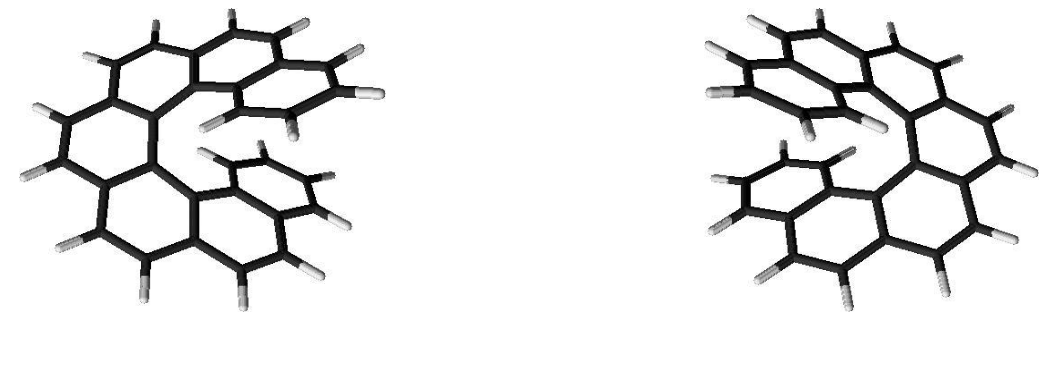
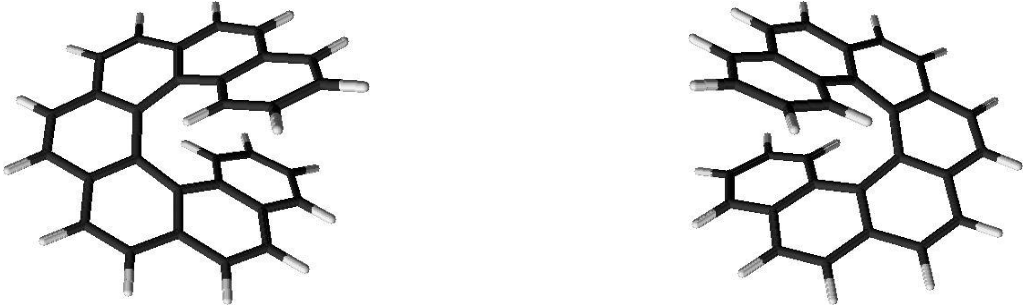
add new stuff

Changed region(s): [[0.0, 0.0, 0.3717, 1.0], [0.6505, 0.0, 0.9913, 1.0]]

diff --git a/work.md b/work.md
@@ -1,60 +1,66 @@
 ---
 layout: page
 permalink: /work/
-title: work
+title: Work
 ---
 
 
 
-###  	Automation of nuclear material cladding coating measurement process
-![Coating segmentation preview](/assets/images/preview.png)
-This project began as a solution to the time-intensive manual labeling of microscopy images during my work at the Nuclear Research Institute in Řež. I later expanded it into the focus of my bachelor’s thesis. The core objective was to semi-automate the institute’s coating analysis workflow by integrating a trained U-Net model into their existing process.
+<style>
+.card:hover .card-header h3 { text-decoration: underline; }
+.work-card-image {
+  width: 100%;
+  height: 190px;          /* adjust as needed */
+  object-fit: cover;
+  object-position: center;
+  display: block;
+}.card { cursor: pointer; border: 1px solid var(--border-color); padding: 1rem; margin-bottom: 1.25rem; border-radius: 6px; background: var(--content-bg-color); }
+.card-header h3 { margin: 0 0 0.25rem 0; }
+.card-meta { font-size: 0.9rem; color: var(--text-color); }
+.button-container { margin-top: 0.5rem; }
+</style>
 
-A major part of the work involved building a custom dataset from scratch, as no suitable dataset previously existed. The training process, model architecture, and dataset creation are all thoroughly documented in the thesis.
+<script>
+function toggleDescription(id) {
+  var element = document.getElementById(id);
+  if (!element) return;
+  element.style.display = (element.style.display === 'none' || element.style.display === '') ? 'block' : 'none';
+}
+</script>
 
-Through this work, I learned how to collect and process data in close collaboration with domain experts, train deep learning models for image segmentation, and integrate them into practical workflows. I gained hands-on experience with Python, OpenCV, PyTorch, Docker, and a range of machine learning tools and libraries.
-    
-<div class="button-container">
-  <a href="https://github.com/emmatekulova/coating_detection" class="button">Github Repo</a>
-  <!-- 
-  <a href="/assets/reports/thesis.pdf" class="button">Thesis</a>
- -->
+<div class="projects-section">
 
+<div class="card" onclick="toggleDescription('coatingDesc')">
+  <img class="work-card-image" src="/assets/images/preview.png" alt="Coating segmentation preview">
+  <div class="card-header"><h3>Automation of nuclear material cladding coating measurement process</h3></div>
+  <p class="card-meta">Nuclear Research Institute • Bachelor's thesis work</p>
+  <div id="coatingDesc" style="display: none; margin-top:0.75rem;">
+    <p>This project began as a solution to the time-intensive manual labeling of microscopy images during my work at the Nuclear Research Institute in Řež. I later expanded it into the focus of my bachelor’s thesis. The core objective was to semi-automate the institute’s coating analysis workflow by integrating a trained U-Net model into their existing process.</p>
+    <p>A major part of the work involved building a custom dataset from scratch, as no suitable dataset previously existed. The training process, model architecture, and dataset creation are all thoroughly documented in the thesis.</p>
+    <p>Through this work, I learned how to collect and process data in close collaboration with domain experts, train deep learning models for image segmentation, and integrate them into practical workflows. I gained hands-on experience with Python, OpenCV, PyTorch, Docker, and a range of machine learning tools and libraries.</p>
+    <div class="button-container"><a href="https://github.com/emmatekulova/coating_detection" class="button">Github Repo</a> <a href="https://github.com/emmatekulova/Automation_of_coating_measurement_process" class="button">Bachelor Thesis</a></div>
+  </div>
 </div>
 
-<div class="button-container">
-  <a href="https://github.com/emmatekulova/Automation_of_coating_measurement_process" class="button">Bachelor Thesis</a>
-  <!-- 
-  <a href="/assets/reports/thesis.pdf" class="button">Thesis</a>
- -->
-
+<div class="card" onclick="toggleDescription('nanoDesc')">
+  <img class="work-card-image" src="/assets/images/vertex.png" alt="Nanoindent growth measurement preview">
+  <div class="card-header"><h3>Nanoindent growth measurements + web app</h3></div>
+  <p class="card-meta">Measurement process automation • web app </p>
+  <div id="nanoDesc" style="display: none; margin-top:0.75rem;">
+    <p>This Python-based project focuses on processing image pairs—typically “before” and “after” shots—to analyze changes in a grid-like structure. It calculates the elongation and width differences of grid elements between the two images, providing insights into material deformation. The final work was integrated into a web-app.</p>
+    <div class="button-container"><a href="https://github.com/emmatekulova/nanoindent_growth_measurments/" class="button">Github Repo</a></div>
+  </div>
 </div>
 
-<br>
----
-
-<br>
-
-### Nanoindent growth measurements + web app
-![Nanoindent growth measurement preview](/assets/images/vertex.png)
-This Python-based project focuses on processing image pairs—typically “before” and “after” shots—to analyze changes in a grid-like structure. It calculates the elongation and width differences of grid elements between the two images, providing insights into material deformation. The final work was integrated into a web-app.
-
-The project was developed as part of my work at the Nuclear Research Institute in Řež and aims to assist in nanoindentation experiments through automated analysis.
-    
-<div class="button-container">
-  <a href="https://github.com/emmatekulova/nanoindent_growth_measurments/" class="button">Github Repo</a>
-
+<div class="card" onclick="toggleDescription('racemDesc')">
+  <img class="work-card-image" src="/assets/images/uochb2.png" alt="Racemization of n-Helicenes">
+  <div class="card-header"><h3>Racemization of n-Helicenes</h3></div>
+  <p class="card-meta">Computational chemistry: transition states, IR spectra</p>
+  <div id="racemDesc" style="display: none; margin-top:0.75rem;">
+    <p>I worked on the racemization properties of several helicenes, including <b>pentahelicene</b>, <b>hexahelicene</b>, <b>heptahelicene</b>, and <b>dinaphtho[5]helicene</b>. My research focused on calculating <b>racemization barriers</b>, identifying <b>transition states</b>, and analyzing <b>IR spectra</b>.</p>
+    <p>Along the way, I gained experience with tools like <b>Gaussian</b>, <b>VMD</b>, <b>Avogadro</b> and <b>QuantumATK</b> for molecular modeling and simulation.</p>
+    <div class="button-container"><a href="/assets/presentations/uochb_presentation.pdf" class="button">Mid-Project Presentation</a></div>
+  </div>
 </div>
 
-<br>
-
----
-
-<br>
-
-### Racemization of n-Helicenes
-![Racemization of n-Helicenes](/assets/images/uochb2.png)
-I worked on the racemization properties of several helicenes, including <b>pentahelicene</b>, <b>hexahelicene</b>, <b>heptahelicene</b>, and <b>dinaphtho[5]helicene</b>. My research focused on calculating <b>racemization barriers</b>, identifying <b>transition states</b>, and analyzing <b>IR spectra</b>.
-
-Along the way, I gained experience with tools like <b>Gaussian</b>, <b>VMD</b>, <b>Avogadro</b> and <b>QuantumATK</b> for molecular modeling and simulation.
-<div class="button-container"> <a href="/assets/presentations/uochb_presentation.pdf" class="button">Mid-Project Presentation</a> </div>
+</div>

diff --git a/cv.md b/cv.md
@@ -1,6 +1,6 @@
 ---
 layout: page
-title: cv
+title: CV
 permalink: /cv/
 order: 1
 ---
@@ -43,6 +43,7 @@ order: 1
 .cv-description {
     margin-top: 0.5em;
 }
+.thin-divider { border: none; border-top: 1px solid var(--border-color); margin: 0.35em 0; height: 0; }
 </style>
 
 
@@ -89,7 +90,9 @@ order: 1
 <div style="text-align: center; margin: 15px 0;">• • •</div>
 
 
-### Work Experience
+<a id="work-experience"></a>
+### <a href="/work">Work Experience</a>
+
 <div class="cv-entry">
     <div class="cv-heading">
         <div class="cv-heading-text">
@@ -156,27 +159,29 @@ order: 1
 - Correspondence seminar focused on chemistry for high school students
 - Authored and reviewed competition problems  
   [View sample problem (PDF)](https://ksicht.natur.cuni.cz/media/rocniky/zadani/KSICHT-22-1_final.pdf)
-
----
+  
+<hr class="thin-divider">
 
 **Event Organizer – Head of Legal Team**  
 *TEDxYouth@Bratislava • Bratislava, Slovakia 🇸🇰 05/2018 – 08/2020*  
 - Oversaw licensing and compliance for event with 300+ participants
-
+<hr class="thin-divider">
 <div style="text-align: center; margin: 15px 0;">• • •</div>
 
-### Honours and Awards
+<a id="honours-and-awards"></a>
+### <a href="/projects">Honours and Awards</a>
 
 - **Student Scientific Conference** – 🇨🇿 28/11/2024 UCT *1st place*  
 - **Chemistry Olympiad – National Round** 🇸🇰 03/2022 – *5th place*  
 - **Chemiklání Chemistry Team Competition** 🇨🇿 02/2022 – *4th place* (Team Captain)
 - **Chemistry Olympiad – National Round** 🇸🇰 03/2021 – *10th place*  
 - **IBIS Biology Competition** 🇸🇰 06/2021 – *2nd place*  
-
+<hr class="thin-divider">
 
 <div style="text-align: center; margin: 15px 0;">• • •</div>
 
-### Summer Schools & Projects
+<a id="summer-schools-projects"></a>
+### <a href="/projects">Summer Schools & Projects</a>
 
 **AIProHealth Summer School**  
 *Tartu, Estonia 🇪🇪 12/08/2024 – 30/08/2024*  
@@ -184,14 +189,6 @@ order: 1
 - Developed a digital medical device prototype; secured **2nd place** in the hackathon  
 - Gained hands-on experience with EU regulations and built valuable connections  
 - [AIProHealth Program Link](https://eithealth.eu/programmes/aiprohealth/)
-
+<hr class="thin-divider">
 <div style="text-align: center; margin: 15px 0;">• • •</div>
-
-
-### [work](/work)
-For more details about the projects I've worked on, visit the work page.
-
-
-
-
 

diff --git a/projects.md b/projects.md
@@ -1,6 +1,6 @@
 ---
 layout: page
-title: projects
+title: Projects
 permalink: /projects/
 order: 3
 ---
@@ -26,7 +26,7 @@ function toggleDescription(id) {
 
 <div class="card" onclick="toggleDescription('ethglobalDesc')">
     <div class="card-header">
-        <h3>ETHGlobal</h3>
+        <h3>ETHGlobal - Hackathon</h3>
         <div class="card-meta">
             Buenos Aires, Argentina 🇦🇷 • 11/2025 • 
         </div>
@@ -38,7 +38,7 @@ function toggleDescription(id) {
     </p>
     <div id="ethglobalDesc" style="display: none;">
         <p>
-            TBD
+            I helped build WiFi-Radar, a decentralized “public good” platform that makes it easy to find and verify real Wi-Fi hotspots. Our system uses cryptographic verification and real-time testing so that every listed hotspot is accurate and trustworthy, and contributors can add new locations through a simple interactive map.
         </p>
         <div class="card-links">
             <a href="https://ethglobal.com/showcase/wifi-radar-jsqac" class="button" target="_blank">Our Project</a>
